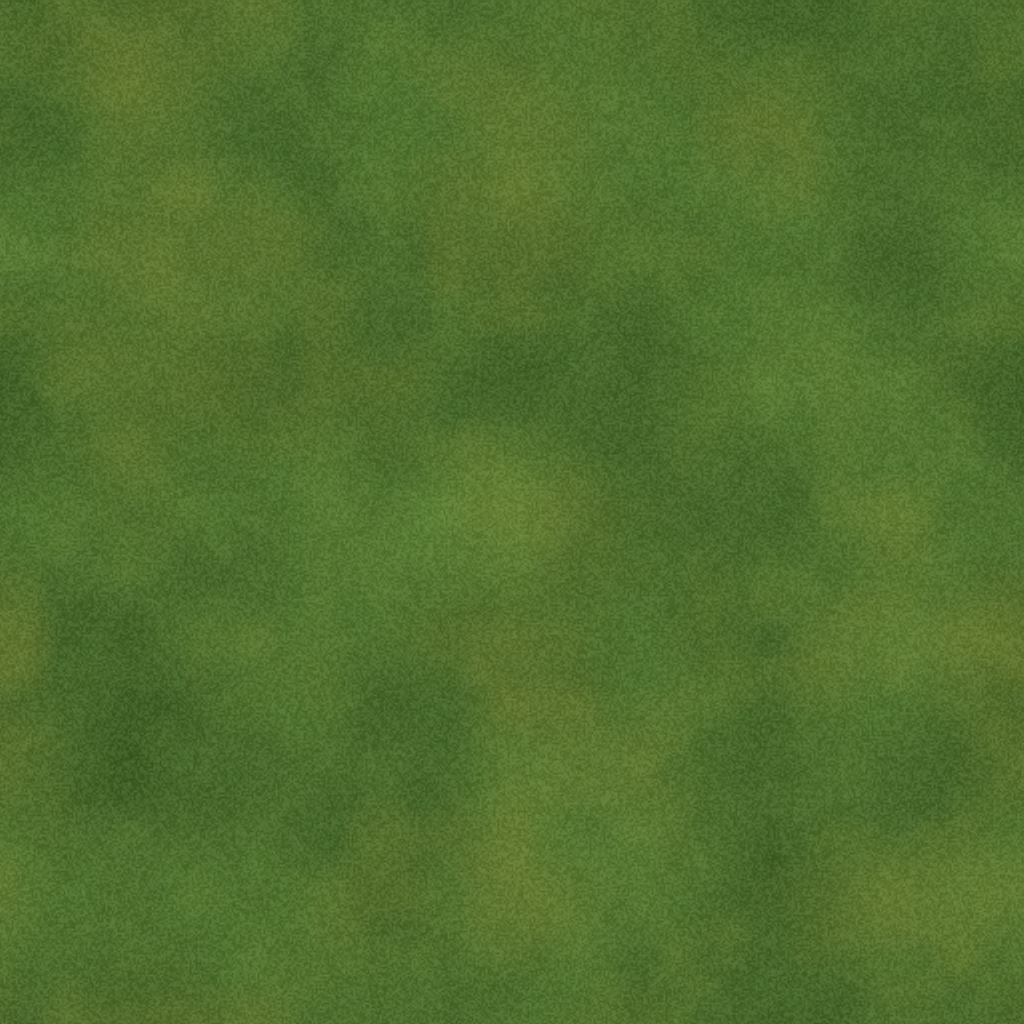
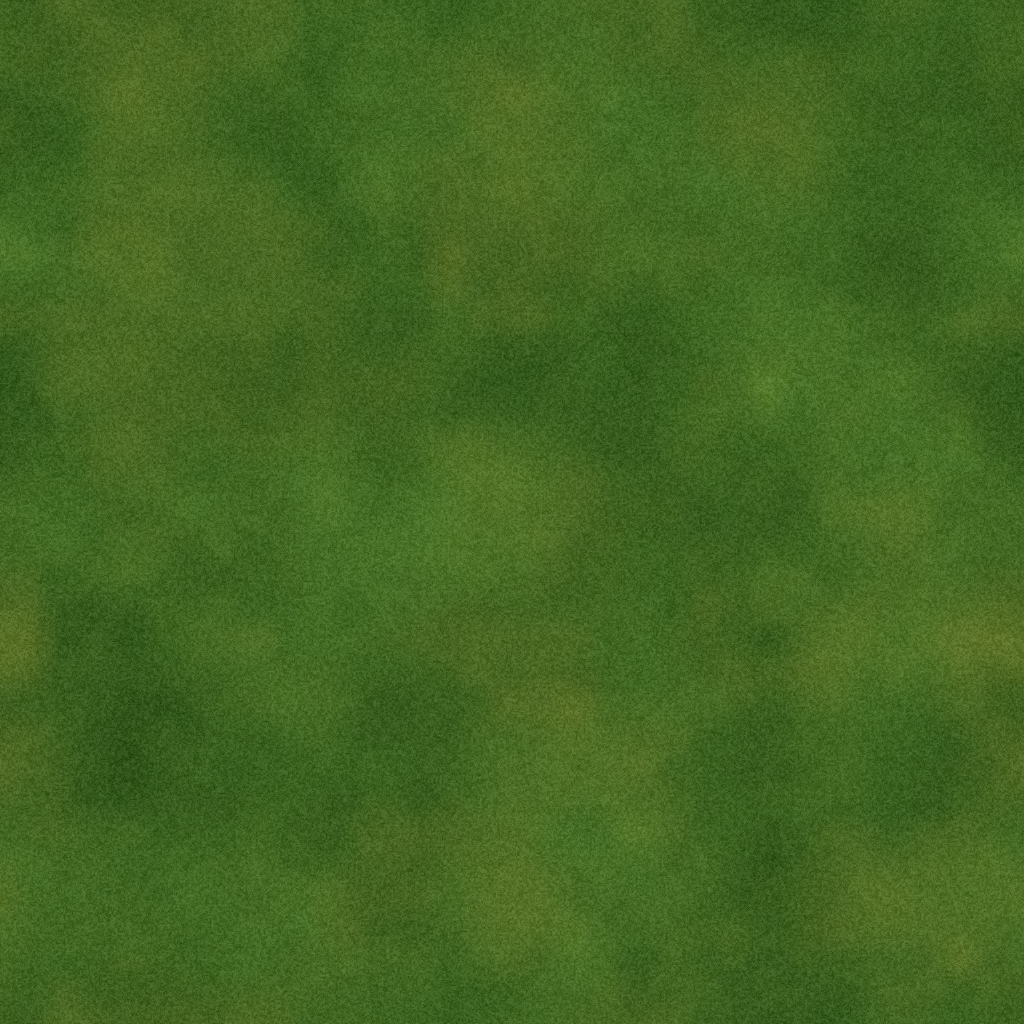
feat(iter 1/5): normal-mapped terrain + deep painted textures
Re-baked grass/dirt/rock/sand/marsh albedo with blade/clod/strata/ripple
detail + matching tangent-space normal maps; terrain switched to
TerrainMaterial (3 normal-mapped layers packed grass/dirt+sand/rock+marsh)
so surfaces now show lit relief; roads read clearly as dirt ribbons.

Claude-Session: https://claude.ai/code/session_01MiZU5TmKTLzXFycSW8hbPv

diff --git a/apps/client/src/terrain.ts b/apps/client/src/terrain.ts
@@ -7,7 +7,7 @@ import { Mesh } from "@babylonjs/core/Meshes/mesh";
 import { VertexData } from "@babylonjs/core/Meshes/mesh.vertexData";
 import { MeshBuilder } from "@babylonjs/core/Meshes/meshBuilder";
 import type { Scene } from "@babylonjs/core/scene";
-import { MixMaterial } from "@babylonjs/materials/mix";
+import { TerrainMaterial } from "@babylonjs/materials/terrain";
 
 import { VertexBuffer } from "@babylonjs/core/Buffers/buffer";
 
@@ -30,13 +30,10 @@ export class TerrainManager {
   private waterCenter = { x: NaN, z: NaN };
 
   constructor(private scene: Scene) {
-    for (const name of ["grass", "dirt", "rock", "marsh", "sand"]) {
-      const t = new Texture(`/assets/terrain/${name}.png`, scene);
+    // 3 normal-mapped layers: grass(R), dirt+sand(G), rock+marsh(B)
+    for (const name of ["grass", "dirt", "rock", "grass_n", "dirt_n", "rock_n"]) {
+      const t = new Texture(`/assets/terrain/${name}.png`, scene, false, name.endsWith("_n") ? false : true);
       t.wrapU = t.wrapV = Texture.WRAP_ADDRESSMODE;
-      // MixMaterial derives diffuse UVs from the (chunk-local) mix UV scaled
-      // by the diffuse texture's own scale — CHUNK/TILE repeats per chunk
-      t.uScale = CHUNK / TILE;
-      t.vScale = CHUNK / TILE;
       this.detail[name] = t;
     }
 
@@ -174,46 +171,39 @@ export class TerrainManager {
         const x = x0 + (i / (MIX_RES - 1)) * CHUNK;
         const z = z0 + (j / (MIX_RES - 1)) * CHUNK;
         const [g, d, r, m] = mapGroundWeights(x, z);
+        const sand = mapSandAt(x, z);
         const k = (j * MIX_RES + i) * 4;
-        // crude curvature AO: hollows darken, crests brighten slightly
-        const h0 = mapHeightAt(x, z);
-        const concave =
-          (mapHeightAt(x + 2.5, z) + mapHeightAt(x - 2.5, z) + mapHeightAt(x, z + 2.5) + mapHeightAt(x, z - 2.5)) / 4 -
-          h0;
-        const ao = Math.max(0.62, Math.min(1.0, 1 - concave * 0.55));
-        mix[k] = Math.round(255 * ao); // layer-1 brightness
-        mix[k + 1] = (d / Math.max(0.001, g + d)) * 255;
-        mix[k + 2] = r * 255;
-        mix[k + 3] = 255 - m * 255;
+        // TerrainMaterial: R=layer1(grass) G=layer2(dirt/sand) B=layer3(rock/marsh)
+        let r1 = g * (1 - sand);
+        let r2 = d + sand * 1.4;
+        let r3 = r + m;
+        const sum = r1 + r2 + r3 || 1;
+        mix[k] = (r1 / sum) * 255;
+        mix[k + 1] = (r2 / sum) * 255;
+        mix[k + 2] = (r3 / sum) * 255;
+        mix[k + 3] = 255;
       }
     }
     const mixTex = RawTexture.CreateRGBATexture(mix, MIX_RES, MIX_RES, this.scene, false, false, Texture.BILINEAR_SAMPLINGMODE);
 
-    // second cascade: sand over everything by beach/seabed weight
-    const mix2 = new Uint8Array(MIX_RES * MIX_RES * 4);
-    for (let j = 0; j < MIX_RES; j++) {
-      for (let i = 0; i < MIX_RES; i++) {
-        const x = x0 + (i / (MIX_RES - 1)) * CHUNK;
-        const z = z0 + (j / (MIX_RES - 1)) * CHUNK;
-        const k = (j * MIX_RES + i) * 4;
-        mix2[k] = mapSandAt(x, z) * 255;
-        mix2[k + 3] = 255; // keep layer-8 (1-a) silent
-      }
-    }
-    const mixTex2 = RawTexture.CreateRGBATexture(mix2, MIX_RES, MIX_RES, this.scene, false, false, Texture.BILINEAR_SAMPLINGMODE);
-
-    const mat = new MixMaterial(`terrainmat:${cx}:${cz}`, this.scene);
-    mat.mixTexture1 = mixTex;
-    mat.mixTexture2 = mixTex2;
+    const mat = new TerrainMaterial(`terrainmat:${cx}:${cz}`, this.scene);
+    mat.mixTexture = mixTex;
     mat.diffuseTexture1 = this.detail.grass!;
     mat.diffuseTexture2 = this.detail.dirt!;
     mat.diffuseTexture3 = this.detail.rock!;
-    mat.diffuseTexture4 = this.detail.marsh!;
-    mat.diffuseTexture5 = this.detail.sand!;
-    mat.diffuseTexture6 = this.detail.sand!;
-    mat.diffuseTexture7 = this.detail.sand!;
-    mat.diffuseTexture8 = this.detail.sand!;
-    mat.specularColor = Color3.Black();
+    mat.bumpTexture1 = this.detail.grass_n!;
+    mat.bumpTexture2 = this.detail.dirt_n!;
+    mat.bumpTexture3 = this.detail.rock_n!;
+    const rep = CHUNK / TILE;
+    for (const t of [
+      mat.diffuseTexture1, mat.diffuseTexture2, mat.diffuseTexture3,
+      mat.bumpTexture1, mat.bumpTexture2, mat.bumpTexture3,
+    ]) {
+      (t as Texture).uScale = rep;
+      (t as Texture).vScale = rep;
+    }
+    mat.specularColor = new Color3(0.05, 0.05, 0.05);
+    mat.specularPower = 64;
     mesh.material = mat;
 
     mesh.isPickable = true;

diff --git a/assets/blender/palette/terrain_textures.py b/assets/blender/palette/terrain_textures.py
@@ -56,10 +56,12 @@ def _mix(c0, c1, t):
     return np.asarray(c0, np.float32) * (1 - t) + np.asarray(c1, np.float32) * t
 
 
-def _save(name: str, rgb: np.ndarray):
+def _save(name: str, rgb: np.ndarray, non_color: bool = False):
     rgb = np.clip(rgb, 0, 1)
     rgba = np.concatenate([rgb, np.ones((SIZE, SIZE, 1), np.float32)], axis=2)
     img = bpy.data.images.get(name) or bpy.data.images.new(name, SIZE, SIZE, alpha=False)
+    if non_color:
+        img.colorspace_settings.name = "Non-Color"
     img.pixels.foreach_set(rgba.ravel())
     out_dir = os.path.join(repo_root(), "assets", "out", "terrain")
     os.makedirs(out_dir, exist_ok=True)
@@ -70,50 +72,82 @@ def _save(name: str, rgb: np.ndarray):
     return path
 
 
+def _normal_from_height(height: np.ndarray, strength: float = 2.0) -> np.ndarray:
+    """Tangent-space normal map from a tileable height field (wrapping sobel)."""
+    gx = (np.roll(height, -1, 1) - np.roll(height, 1, 1)) * strength
+    gy = (np.roll(height, -1, 0) - np.roll(height, 1, 0)) * strength
+    nz = np.ones_like(height)
+    length = np.sqrt(gx * gx + gy * gy + nz * nz)
+    n = np.stack([-gx / length, -gy / length, nz / length], axis=2)
+    return n * 0.5 + 0.5  # encode to 0..1
+
+
 def grass():
     base = _fbm(11)
     patch = _fbm(23, (8, 16, 32))
+    clump = _fbm(13, (16, 32, 64, 128))         # blade clumps
     speck = _value_noise(512, 31)
-    col = _mix((0.22, 0.34, 0.14), (0.38, 0.52, 0.22), base)
-    col = _mix(col, (0.45, 0.50, 0.20), np.clip(patch - 0.45, 0, 1) * 1.4)  # dry patches
-    col += (speck[..., None] - 0.5) * 0.10  # blade speckle
+    blades = np.abs(np.sin(_value_noise(256, 33) * 40)) ** 3  # fine blade streaks
+    col = _mix((0.17, 0.30, 0.10), (0.40, 0.56, 0.22), base)
+    col = _mix(col, (0.47, 0.52, 0.20), np.clip(patch - 0.45, 0, 1) * 1.6)  # dry patches
+    col = _mix(col, (0.22, 0.38, 0.14), clump * 0.5)
+    col += (speck[..., None] - 0.5) * 0.09
+    col -= (blades[..., None]) * 0.06
+    h = base * 0.5 + clump * 0.5 + blades * 0.3
+    _save("grass_n", _normal_from_height(h, 2.4), non_color=True)
     return _save("grass", col)
 
 
 def dirt():
     base = _fbm(41)
-    pebbles = np.clip(_value_noise(256, 43) - 0.72, 0, 1) * 3.0
-    col = _mix((0.30, 0.22, 0.14), (0.46, 0.35, 0.22), base)
-    col = _mix(col, (0.52, 0.47, 0.40), pebbles)
-    col += (_value_noise(512, 47)[..., None] - 0.5) * 0.06
+    clods = _fbm(45, (16, 32, 64))
+    pebbles = np.clip(_value_noise(256, 43) - 0.70, 0, 1) * 3.0
+    cracks = np.clip(0.1 - np.abs(_fbm(47, (16, 32)) - 0.5) * 2, 0, 1) * 4
+    col = _mix((0.27, 0.19, 0.12), (0.48, 0.37, 0.24), base)
+    col = _mix(col, (0.56, 0.50, 0.42), pebbles)
+    col = _mix(col, (0.18, 0.13, 0.09), np.clip(cracks, 0, 1))
+    col += (_value_noise(512, 49)[..., None] - 0.5) * 0.06
+    h = base * 0.4 + clods * 0.5 + pebbles * 0.6 - np.clip(cracks, 0, 1) * 0.5
+    _save("dirt_n", _normal_from_height(h, 2.8), non_color=True)
     return _save("dirt", col)
 
 
 def rock():
     base = _fbm(61)
+    strata = (np.sin(_fbm(63, (8, 16)) * 22) * 0.5 + 0.5)  # layered strata
     cracks = np.abs(_fbm(67, (16, 32, 64)) - 0.5) * 2
-    crackline = np.clip(0.14 - cracks, 0, 1) * 5.0
-    col = _mix((0.40, 0.39, 0.37), (0.58, 0.57, 0.54), base)
-    col = _mix(col, (0.22, 0.21, 0.20), np.clip(crackline, 0, 1))
+    crackline = np.clip(0.12 - cracks, 0, 1) * 6.0
+    col = _mix((0.33, 0.33, 0.31), (0.60, 0.59, 0.56), base)
+    col = _mix(col, (0.42, 0.41, 0.38), strata * 0.4)
+    col = _mix(col, (0.16, 0.15, 0.14), np.clip(crackline, 0, 1))
     col += (_value_noise(512, 71)[..., None] - 0.5) * 0.07
+    h = base * 0.5 + strata * 0.3 - np.clip(crackline, 0, 1) * 0.9
+    _save("rock_n", _normal_from_height(h, 3.6), non_color=True)
     return _save("rock", col)
 
 
 def marsh():
     base = _fbm(81)
     wet = np.clip(_fbm(83, (8, 16)) - 0.5, 0, 1) * 2
-    col = _mix((0.20, 0.24, 0.12), (0.33, 0.34, 0.16), base)
-    col = _mix(col, (0.14, 0.18, 0.14), wet)  # dark wet pools
+    moss = _fbm(85, (32, 64))
+    col = _mix((0.16, 0.22, 0.10), (0.33, 0.35, 0.17), base)
+    col = _mix(col, (0.10, 0.15, 0.12), wet)  # dark wet pools
+    col = _mix(col, (0.26, 0.34, 0.16), moss * 0.4)
     col += (_value_noise(512, 89)[..., None] - 0.5) * 0.08
+    h = base * 0.5 + moss * 0.4 - wet * 0.3
+    _save("marsh_n", _normal_from_height(h, 2.0), non_color=True)
     return _save("marsh", col)
 
 
 def sand():
     base = _fbm(101)
     ripples = np.abs(np.sin(_fbm(103, (8, 16, 32)) * 14.0)) ** 2
-    col = _mix((0.62, 0.55, 0.40), (0.78, 0.70, 0.52), base)
-    col = _mix(col, (0.55, 0.48, 0.35), ripples * 0.35)
-    col += (_value_noise(512, 107)[..., None] - 0.5) * 0.08
+    grains = _value_noise(512, 109)
+    col = _mix((0.60, 0.53, 0.38), (0.80, 0.72, 0.54), base)
+    col = _mix(col, (0.54, 0.47, 0.34), ripples * 0.4)
+    col += (grains[..., None] - 0.5) * 0.07
+    h = base * 0.3 + ripples * 0.6
+    _save("sand_n", _normal_from_height(h, 2.0), non_color=True)
     return _save("sand", col)
 
 
